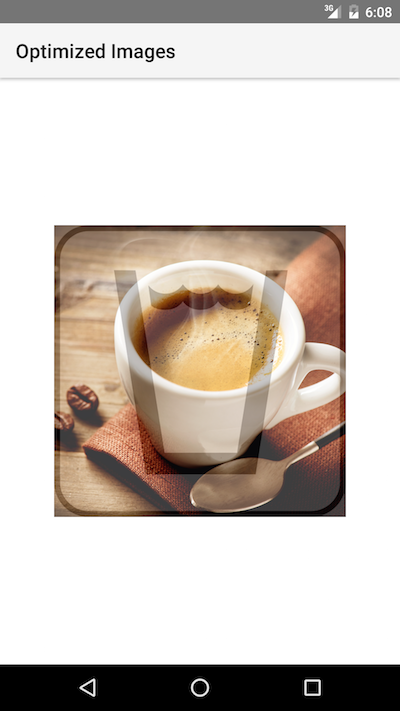
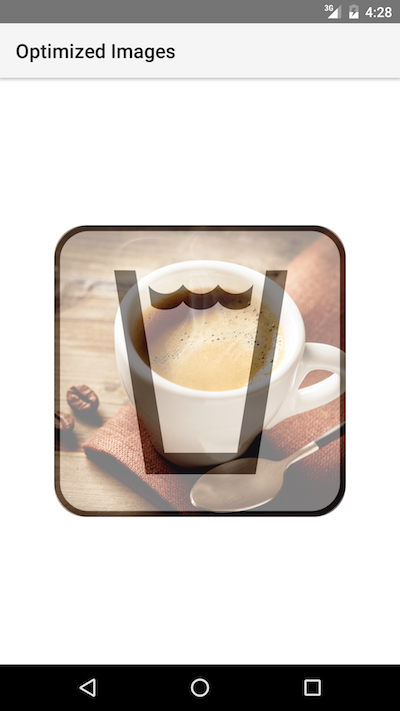
Updated Readme with new corner radius properties and updated screenshots

Changed region(s): [[0.12, 0.3094, 0.87, 0.7426], [0.9, 0.0, 0.96, 0.0309]]

diff --git a/README.md b/README.md
@@ -88,6 +88,30 @@ Boolean value used for showing or hiding the progress bar.
 
 String value used for setting the color of the progress bar. You can set it to hex values ("*#FF0000*") and/or predefined colors ("*green*").
 
+- **roundAsCircle** 
+
+Boolean value used for determining if the image should be rounded as a circle. Its default value is false. If set to true the image will be rounder to a circle.
+
+- **roundedCornerRadius** 
+
+Number value used as radius for rounding the image's corners.
+
+- **roundBottomRight** 
+
+Boolean value used for determining if the image's bottom right corner should be rounded.
+
+- **roundBottomLeft** 
+
+Boolean value used for determining if the image's bottom left corner should be rounded.
+
+- **roundTopLeft** 
+
+Boolean value used for determining if the image's top left corner should be rounded.
+
+- **roundTopRight** 
+
+Boolean value used for determining if the image's top right corner should be rounded.
+
 ## Sample Screenshots
 
 All of the images are sample images for showcasing purposes.
